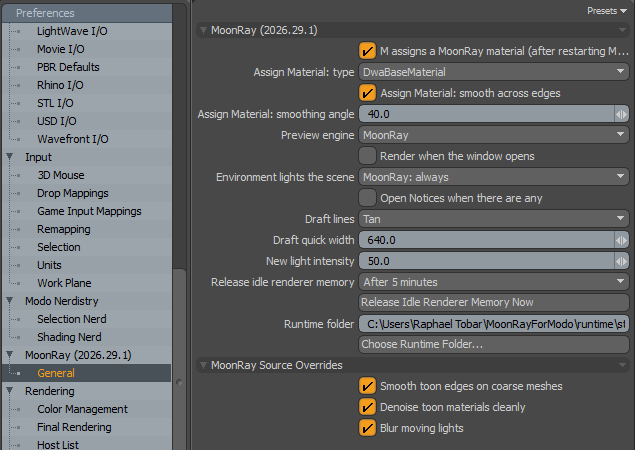
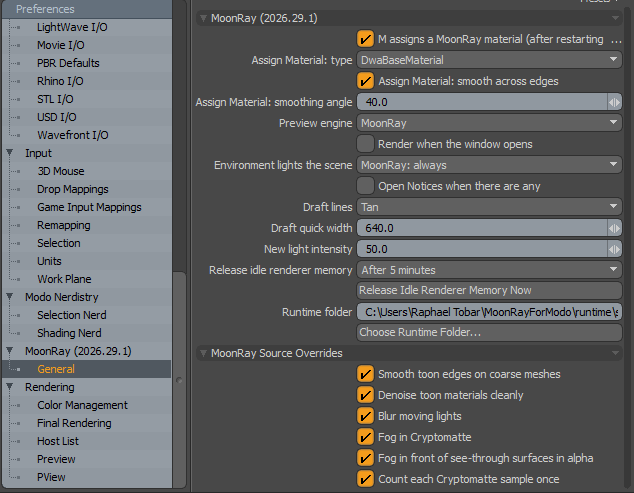
0.4.2 notes: the MoonRay Source Overrides screenshot with all six

diff --git a/docs/WHATS_NEW_04.md b/docs/WHATS_NEW_04.md
@@ -94,7 +94,7 @@ Not released yet: on the MoonLightIPR branch.
 
 ![The MoonRay page of Modo's Preferences, with its MoonRay Source Overrides section](images/preferences-source-overrides.png)
 
-*The MoonRay page of Modo's Preferences, named with the MoonRay release it renders with, and its MoonRay Source Overrides section: where the plugin changes how MoonRay itself renders, each switch on by default.*
+*The MoonRay page of Modo's Preferences, named with the MoonRay release it renders with, and its MoonRay Source Overrides section: the six places where the plugin changes how MoonRay itself renders, each on by default. The [engineers' notes](../patches/native-windows/README.md) say what each changes.*
 
 ![A cloud at four volume bounces, with MoonRay's default volume factors and with all three at 0.2](images/volume-factors.png)
 
